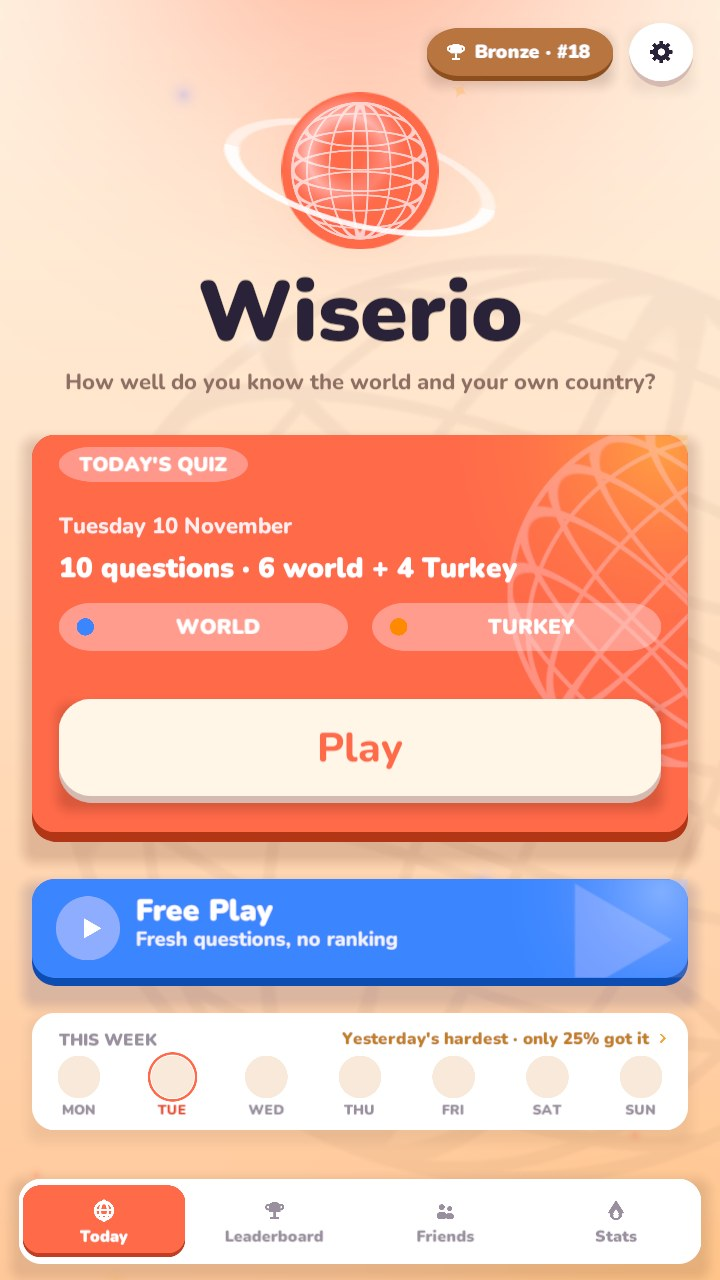
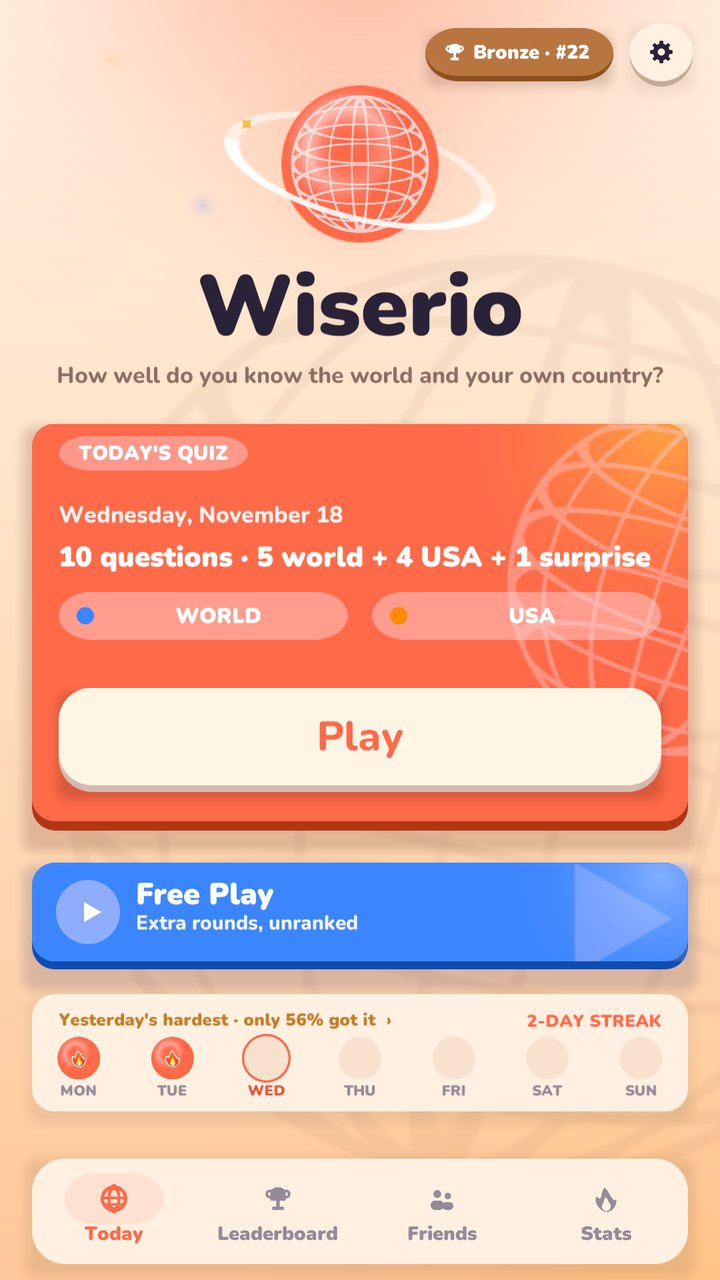
Wiserio page: 5 world + 4 local + 1 surprise, the four question formats, new screenshots with the emoji round

diff --git a/wiserio/index.html b/wiserio/index.html
@@ -4,16 +4,16 @@
 <meta charset="utf-8">
 <meta name="viewport" content="width=device-width, initial-scale=1, viewport-fit=cover">
 <title>Wiserio: daily trivia about the world and your country | Golunex Games</title>
-<meta name="description" content="Wiserio is a daily trivia game by Golunex Games: 10 fresh questions a day, 6 about the world and 4 about your own country. Beat friends and the whole nation.">
+<meta name="description" content="Wiserio is a daily trivia game by Golunex Games: 10 fresh questions a day: 5 about the world, 4 about your own country and a surprise round with emoji riddles. Beat friends and the whole nation.">
 <meta property="og:type" content="website">
 <meta property="og:title" content="Wiserio — daily trivia about the world and your country">
-<meta property="og:description" content="10 new questions a day: 6 about the world, 4 about your own country. Everyone in your country gets the same set.">
+<meta property="og:description" content="10 new questions a day: 5 about the world, 4 about your own country and a surprise to finish. Everyone in your country gets the same set.">
 <meta property="og:image" content="https://golunexgames.github.io/assets/wiserio-feature.jpg">
 <meta property="og:url" content="https://golunexgames.github.io/wiserio/">
 <meta property="og:site_name" content="Golunex Games">
 <meta name="twitter:card" content="summary_large_image">
 <meta name="twitter:title" content="Wiserio — daily trivia about the world and your country">
-<meta name="twitter:description" content="10 new questions a day: 6 about the world, 4 about your own country. Everyone in your country gets the same set.">
+<meta name="twitter:description" content="10 new questions a day: 5 about the world, 4 about your own country and a surprise to finish. Everyone in your country gets the same set.">
 <meta name="twitter:image" content="https://golunexgames.github.io/assets/wiserio-feature.jpg">
 <link rel="canonical" href="https://golunexgames.github.io/wiserio/">
 <meta name="theme-color" content="#FF6B4A">
@@ -50,7 +50,7 @@
         <img class="app-icon" src="/assets/wiserio-icon.png" alt="" width="104" height="104">
         <span class="eyebrow">Daily trivia</span>
         <h1>Wiserio: the world, <span class="coral">and your own country.</span></h1>
-        <p class="lead">Ten fresh questions every day: six about the world, four about the place you live. Everyone in your country gets the same set, so your score means something against friends, family and the whole nation. Twenty seconds a question, a short "did you know?" after each one.</p>
+        <p class="lead">Ten fresh questions every day: five about the world, four about the place you live, and a surprise to finish. Everyone in your country gets the same set, so your score means something against friends, family and the whole nation. Twenty seconds a question, a short "did you know?" after each one.</p>
         <span class="badge">Coming soon to iPhone, iPad and Android (Google Play)</span>
         <div class="actions">
           <a class="btn" href="mailto:golunexgames@gmail.com?subject=Wiserio%20launch"><svg viewBox="0 0 24 24" fill="none" stroke="currentColor" stroke-width="2.4" stroke-linecap="round" stroke-linejoin="round"><rect x="3" y="5" width="18" height="14" rx="3"/><path d="M3 7l9 6 9-6"/></svg>Tell me when it's out</a>
@@ -58,7 +58,7 @@
       </div>
       <div class="art" aria-hidden="true">
         <div class="phone back"><img src="/assets/wshot-home.jpg" alt=""></div>
-        <div class="phone"><img src="/assets/wshot-quiz.jpg" alt=""></div>
+        <div class="phone"><img src="/assets/wshot-emoji.jpg" alt=""></div>
       </div>
     </div>
   </section>
@@ -70,7 +70,7 @@
         <h2>One quiz a day, same for everyone near you</h2>
       </div>
       <div class="steps">
-        <div class="step"><strong>10 questions</strong><span>Six about the world, four about your own country. A new set every day at midnight, your local time.</span></div>
+        <div class="step"><strong>10 questions</strong><span>Five about the world, four about your own country, and a surprise round to finish: an emoji riddle, a higher-or-lower duel or a brain twister. A new set every day at midnight, your local time.</span></div>
         <div class="step"><strong>20 seconds each</strong><span>A right answer is 100 points, plus up to 50 more for speed. After every answer, a fact worth telling someone.</span></div>
         <div class="step"><strong>See where you stand</strong><span>Country and world leaderboards for the day, a this-week view, and a streak that grows with you.</span></div>
       </div>
@@ -85,7 +85,7 @@
       </div>
       <div class="shots" aria-label="Screenshots">
         <div class="phone"><img src="/assets/wshot-home.jpg" alt="Home screen with today's quiz, your streak and the leaderboard" loading="lazy"></div>
-        <div class="phone"><img src="/assets/wshot-quiz.jpg" alt="A question with four answers and the countdown" loading="lazy"></div>
+        <div class="phone"><img src="/assets/wshot-emoji.jpg" alt="The surprise round: an emoji riddle with four answers" loading="lazy"></div>
         <div class="phone"><img src="/assets/wshot-reveal.jpg" alt="The answer revealed with a did-you-know fact" loading="lazy"></div>
         <div class="phone"><img src="/assets/wshot-result.jpg" alt="Result card with score, rank and streak" loading="lazy"></div>
       </div>
@@ -102,6 +102,7 @@
         <div class="tile"><div class="ic orange"><svg viewBox="0 0 24 24" fill="none" stroke="currentColor" stroke-width="2.2" stroke-linecap="round" stroke-linejoin="round"><circle cx="12" cy="12" r="9"/><path d="M3 12h18M12 3c2.5 2.6 3.8 5.6 3.8 9s-1.3 6.4-3.8 9c-2.5-2.6-3.8-5.6-3.8-9S9.5 5.6 12 3z"/></svg></div><h3>Your country's own questions</h3><p>Every launch country has its own pool, written from the inside: food, slang, places, sport, the things you'd know if you grew up there.</p></div>
         <div class="tile"><div class="ic amber"><svg viewBox="0 0 24 24" fill="none" stroke="currentColor" stroke-width="2.2" stroke-linecap="round" stroke-linejoin="round"><path d="M4 20h16M6 20V9l6-5 6 5v11"/><path d="M10 20v-6h4v6"/></svg></div><h3>Leaderboards and streaks</h3><p>Daily country and world rankings, a weekly view that adds up your last seven days, and a streak you can protect with a freeze.</p></div>
         <div class="tile"><div class="ic violet"><svg viewBox="0 0 24 24" fill="none" stroke="currentColor" stroke-width="2.2" stroke-linecap="round" stroke-linejoin="round"><circle cx="9" cy="8" r="3.5"/><circle cx="17" cy="9" r="2.5"/><path d="M3 20c0-3.5 2.7-6 6-6s6 2.5 6 6M15 20c0-2.6 1.6-4.5 4-4.5s3 1.5 3 3.5"/></svg></div><h3>Friend rooms</h3><p>Create a room, send the code or link. Up to ten friends play the same questions in their own time within 48 hours, results side by side.</p></div>
+        <div class="tile"><div class="ic amber"><svg viewBox="0 0 24 24" fill="none" stroke="currentColor" stroke-width="2.2" stroke-linecap="round" stroke-linejoin="round"><circle cx="12" cy="12" r="9"/><path d="M8.5 14.5c1 1.2 2.2 1.8 3.5 1.8s2.5-.6 3.5-1.8"/><path d="M9 9.5h.01M15 9.5h.01"/></svg></div><h3>Trivia that surprises you</h3><p>Not school-book recall: every question is rated for how surprising it is, and the daily set picks the best. Fact or Fiction, Higher or Lower, Emoji Decode and Brain Twisters keep every day different.</p></div>
         <div class="tile"><div class="ic magenta"><svg viewBox="0 0 24 24" fill="none" stroke="currentColor" stroke-width="2.2" stroke-linecap="round" stroke-linejoin="round"><path d="M5 12l4 4L19 6"/><path d="M3 20h18"/></svg></div><h3>Free play, no pressure</h3><p>Want more? Free Play gives you fresh questions with no ranking, and it remembers what you've already seen.</p></div>
         <div class="tile"><div class="ic blue"><svg viewBox="0 0 24 24" fill="none" stroke="currentColor" stroke-width="2.2" stroke-linecap="round" stroke-linejoin="round"><path d="M12 3l7 3v6c0 4.5-3 7.5-7 9-4-1.5-7-4.5-7-9V6z"/><path d="M9 12l2 2 4-4"/></svg></div><h3>Checked twice</h3><p>Every question needs two independent sources and an independent check before it goes live. Spot a mistake anyway? Report it in one tap.</p></div>
         <div class="tile"><div class="ic violet"><svg viewBox="0 0 24 24" fill="none" stroke="currentColor" stroke-width="2.2" stroke-linecap="round" stroke-linejoin="round"><path d="M4 6h16M4 12h10M4 18h7"/><path d="M17 14l2 2 4-4"/></svg></div><h3>13 languages</h3><p>English, Türkçe, Deutsch, Español, Français, Italiano, Português, Русский, Bahasa Indonesia, Polski, Nederlands, 日本語 and 한국어. No account needed; signing in with Apple or Google is optional and keeps your streak when you change phones.</p></div>
